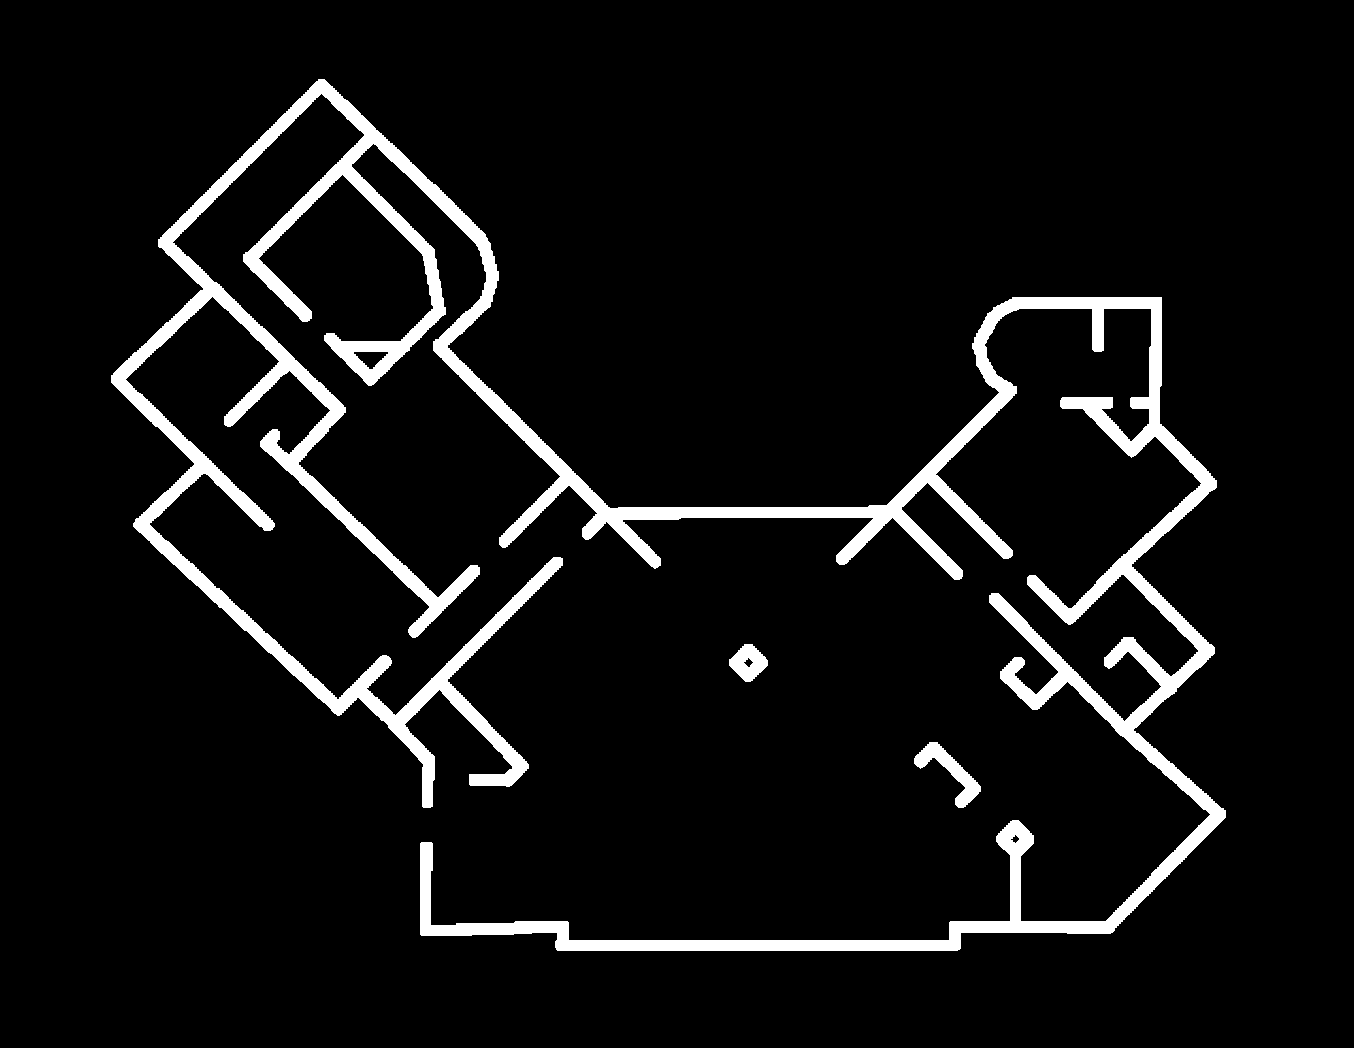
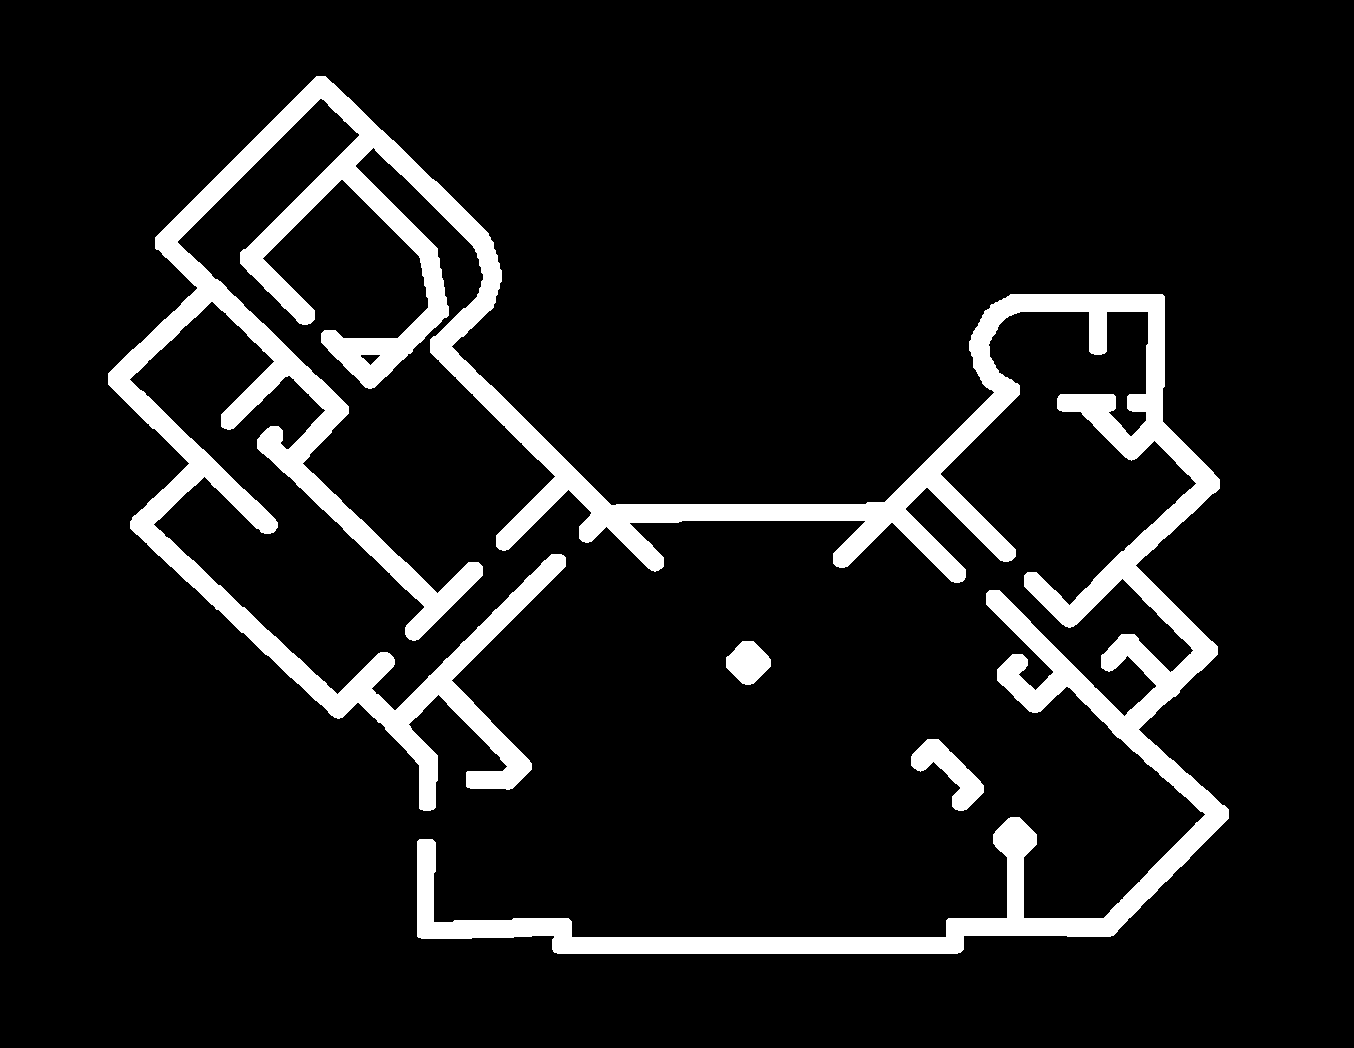
Final occupancy map with dilation, and updated RRT output

diff --git a/ros2_ws/Occupancy Maps/RRT.py b/ros2_ws/Occupancy Maps/RRT.py
@@ -101,7 +101,7 @@ def main():
     num_samples = 1000
 
     start_point = (449, 830)
-    goal_point = (350, 268)
+    goal_point = (427, 471) #Updated this value to 
 
     # Load binary occupancy map
     binary_map = cv2.imread(map_path, cv2.IMREAD_GRAYSCALE)
@@ -139,7 +139,7 @@ def main():
         print(waypoint)
 
     # Save waypoints to a file
-    with open("waypoints.txt", "w") as file:
+    with open("waypoints.csv", "w") as file:
         for waypoint in shortest_path:
             file.write(f"{waypoint[0]},{waypoint[1]}\n")
 

diff --git a/ros2_ws/Occupancy Maps/dilation.py b/ros2_ws/Occupancy Maps/dilation.py
@@ -7,7 +7,7 @@ binary_map = cv2.imread(img_path)
 # Define the robot's radius in pixels (convert from meters if needed)
 robot_diagonal_distance = ((0.4 ** 2) + (0.36 ** 2)) ** 0.5
 robot_radius_meters = robot_diagonal_distance / 2
-robot_radius_pixels = 10 * robot_radius_meters  # 10px/m *  
+robot_radius_pixels = 20 * robot_radius_meters  # 10px/m *  
 
 kernel_size = int(robot_radius_pixels)
 kernel_size = max(1, kernel_size)

diff --git a/ros2_ws/Occupancy Maps/waypoint-processor.py b/ros2_ws/Occupancy Maps/waypoint-processor.py
@@ -1,7 +1,7 @@
 import csv
 import numpy as np
 
-def process_waypoints(input_file, reference_x=449, reference_y=830, scale_factor=0.0317):
+def process_waypoints(input_file, reference_x=449, reference_y=830, scale_factor=0.1318):
     """
     Process waypoints from pixel coordinates to robot pose coordinates
     
